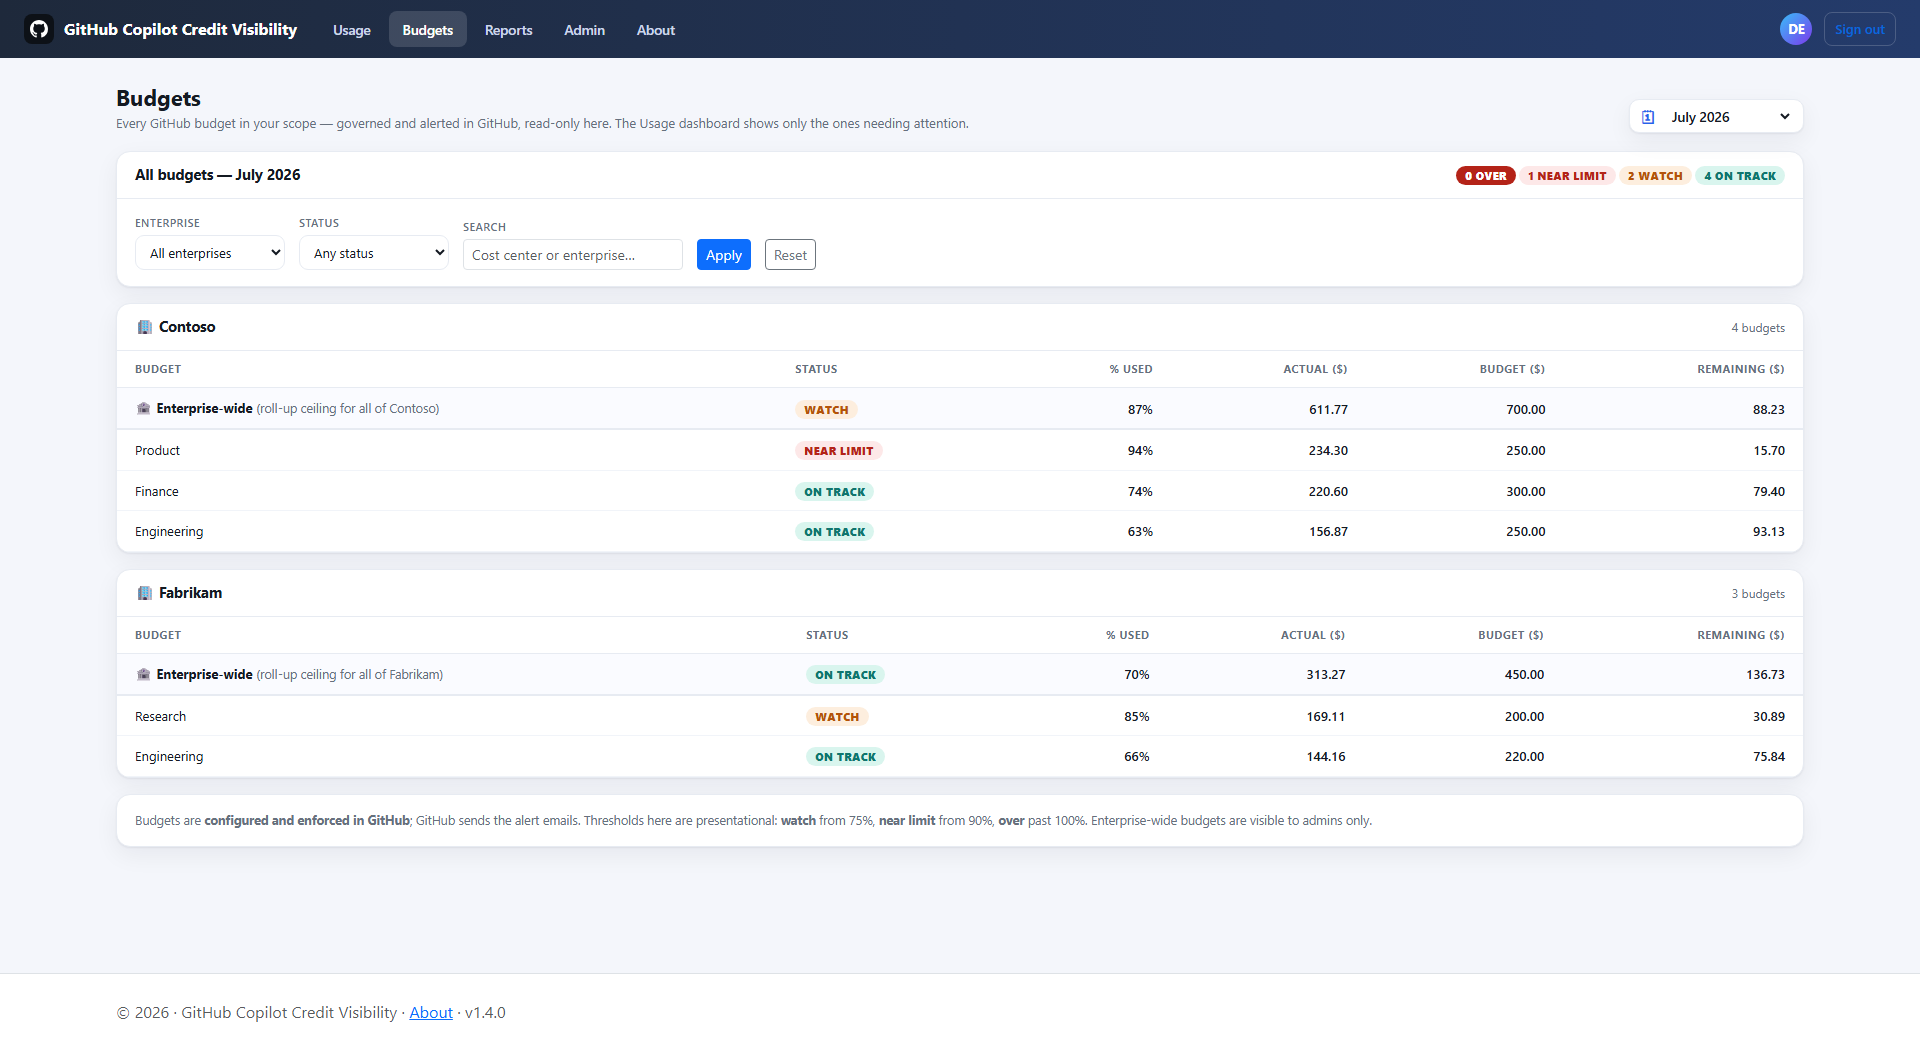
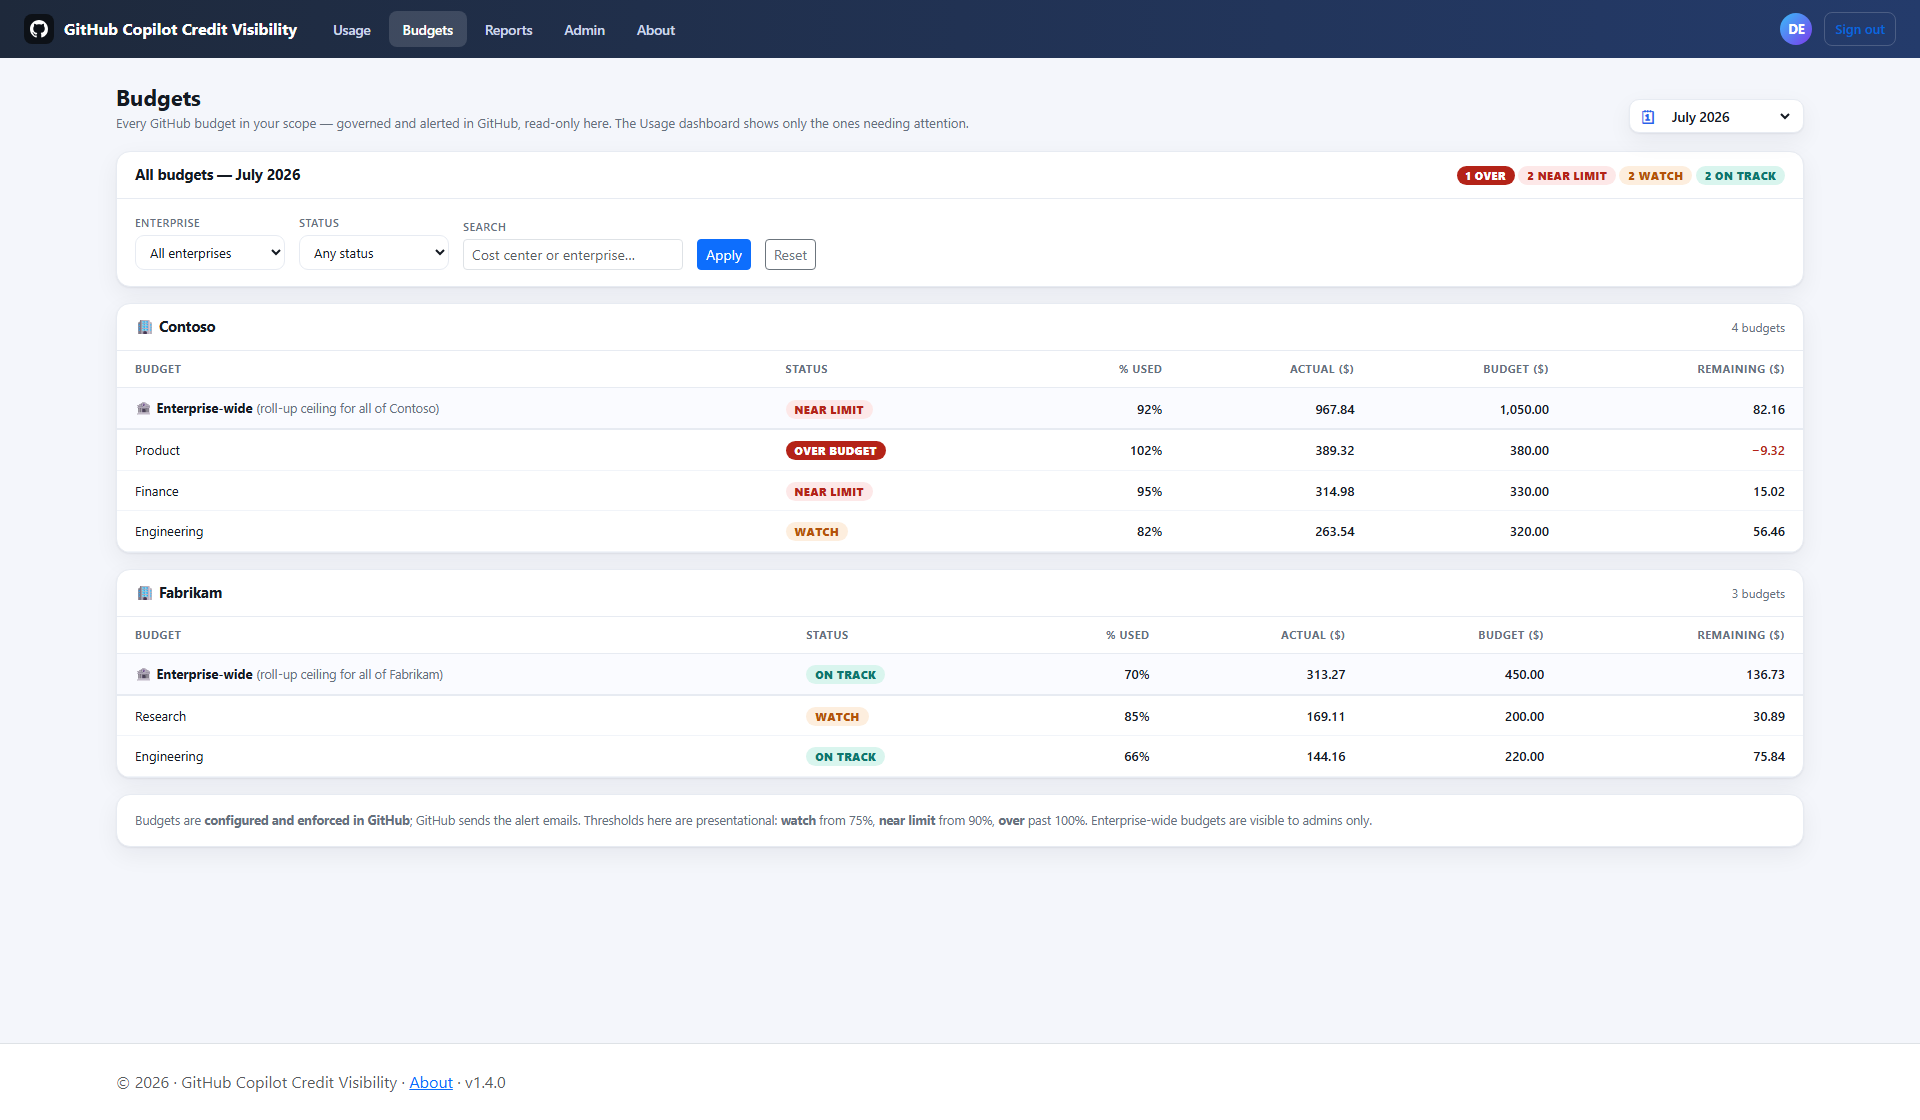
Demo seed: 28 users so dashboard pagination is exercised locally
Contoso grows to 20 mock users (28 total with Fabrikam) - more than one
25-row page, so the per-user table's pagination is visible in the local
run rather than only in real deployments. Contoso budgets resized for
the larger spend so the demo keeps a realistic status mix (1 over,
2 near limit, 4 on track - the exceptions-first card shows all three
states out of the box). DEMO_DATA / RUN_LOCALLY counts updated;
dashboard/reports/budgets screenshots recaptured.

diff --git a/GhcpCreditVisibility/Services/MockGitHubBillingClient.cs b/GhcpCreditVisibility/Services/MockGitHubBillingClient.cs
@@ -30,6 +30,8 @@ namespace GhcpCreditVisibility.Services
             decimal OrgBudget,
             IReadOnlyDictionary<string, decimal> CostCenterBudgets);
 
+        // 20 users: combined with fabrikam's 8 the demo exceeds one dashboard page (25/page), so
+        // the per-user table's pagination is exercised locally, not just in real deployments.
         private static readonly EnterpriseSeed ContosoSeed = new(
             Users: new[]
             {
@@ -37,14 +39,22 @@ namespace GhcpCreditVisibility.Services
                 ("bwright",    "Ben Wright",      "cc-contoso-eng"),
                 ("cpatel",     "Chandni Patel",   "cc-contoso-eng"),
                 ("dkim",       "Daniel Kim",      "cc-contoso-eng"),
+                ("squinn",     "Sam Quinn",       "cc-contoso-eng"),
+                ("tberg",      "Tova Berg",       "cc-contoso-eng"),
+                ("uadeyemi",   "Uche Adeyemi",    "cc-contoso-eng"),
                 ("efischer",   "Erik Fischer",    "cc-contoso-product"),
                 ("fgomez",     "Fernanda Gomez",  "cc-contoso-product"),
                 ("gsingh",     "Gita Singh",      "cc-contoso-product"),
                 ("hmuller",    "Hans Muller",     "cc-contoso-product"),
+                ("vpetrov",    "Vera Petrov",     "cc-contoso-product"),
+                ("wlarsen",    "Wim Larsen",      "cc-contoso-product"),
+                ("xhuang",     "Xin Huang",       "cc-contoso-product"),
                 ("iolsen",     "Ida Olsen",       "cc-contoso-finance"),
                 ("jchen",      "Jun Chen",        "cc-contoso-finance"),
                 ("krossi",     "Katya Rossi",     "cc-contoso-finance"),
                 ("lnguyen",    "Linh Nguyen",     "cc-contoso-finance"),
+                ("ymendez",    "Yara Mendez",     "cc-contoso-finance"),
+                ("zokafor",    "Zara Okafor",     "cc-contoso-finance"),
             },
             CostCenters: new[]
             {
@@ -52,10 +62,12 @@ namespace GhcpCreditVisibility.Services
                 ("cc-contoso-product", "Product"),
                 ("cc-contoso-finance", "Finance"),
             },
-            OrgBudget: 700m,
+            // Budgets sized for 20 users (~$40/user/month of synthetic spend) so the demo shows a
+            // realistic status mix rather than everything blowing over.
+            OrgBudget: 1050m,
             CostCenterBudgets: new Dictionary<string, decimal>
             {
-                ["cc-contoso-eng"] = 250m, ["cc-contoso-product"] = 250m, ["cc-contoso-finance"] = 300m
+                ["cc-contoso-eng"] = 320m, ["cc-contoso-product"] = 380m, ["cc-contoso-finance"] = 330m
             });
 
         // fabrikam deliberately overlaps: "dkim" and "jchen" exist in BOTH enterprises (distinct

diff --git a/docs/RUN_LOCALLY.md b/docs/RUN_LOCALLY.md
@@ -85,7 +85,7 @@ Go to the HTTPS URL printed in the console (e.g. `https://localhost:5001`).
   (Easy Auth/Entra sign-in only applies once the app is deployed behind Azure App Service — see
   the root [README](../README.md) and [infra/README.md](../infra/README.md).)
 - You should land on the **Usage** dashboard, pre-populated with 12 months of synthetic AI-credit
-  spend across **two demo GitHub enterprises** — Contoso (12 users) and Fabrikam (8 users, two of
+  spend across **two demo GitHub enterprises** — Contoso (20 users) and Fabrikam (8 users, two of
   whom deliberately share logins with Contoso users, plus a cost center also named "Engineering")
   — so the multi-enterprise UI has something real to show: the **enterprise dropdown** in the
   header, enterprise-qualified cost-center labels (`Engineering · Contoso` vs

diff --git a/docs/DEMO_DATA.md b/docs/DEMO_DATA.md
@@ -12,7 +12,7 @@ implements the same `IGitHubBillingClient` interface the real GitHub billing API
 (`RealGitHubBillingClient.cs`) implements. It serves **distinct data per enterprise slug**,
 deliberately exercising the multi-enterprise collision cases:
 
-- **`contoso`** — 12 fake users (e.g. `ahernandez` / Ana Hernandez) across three cost centers
+- **`contoso`** — 20 fake users (e.g. `ahernandez` / Ana Hernandez) across three cost centers
   (**Engineering**, **Product**, **Finance**)
 - **`fabrikam`** — 8 fake users, **two of whom (`dkim`, `jchen`) share logins with contoso users**
   (the same GitHub login legitimately existing in two enterprises — billed separately in each), and
